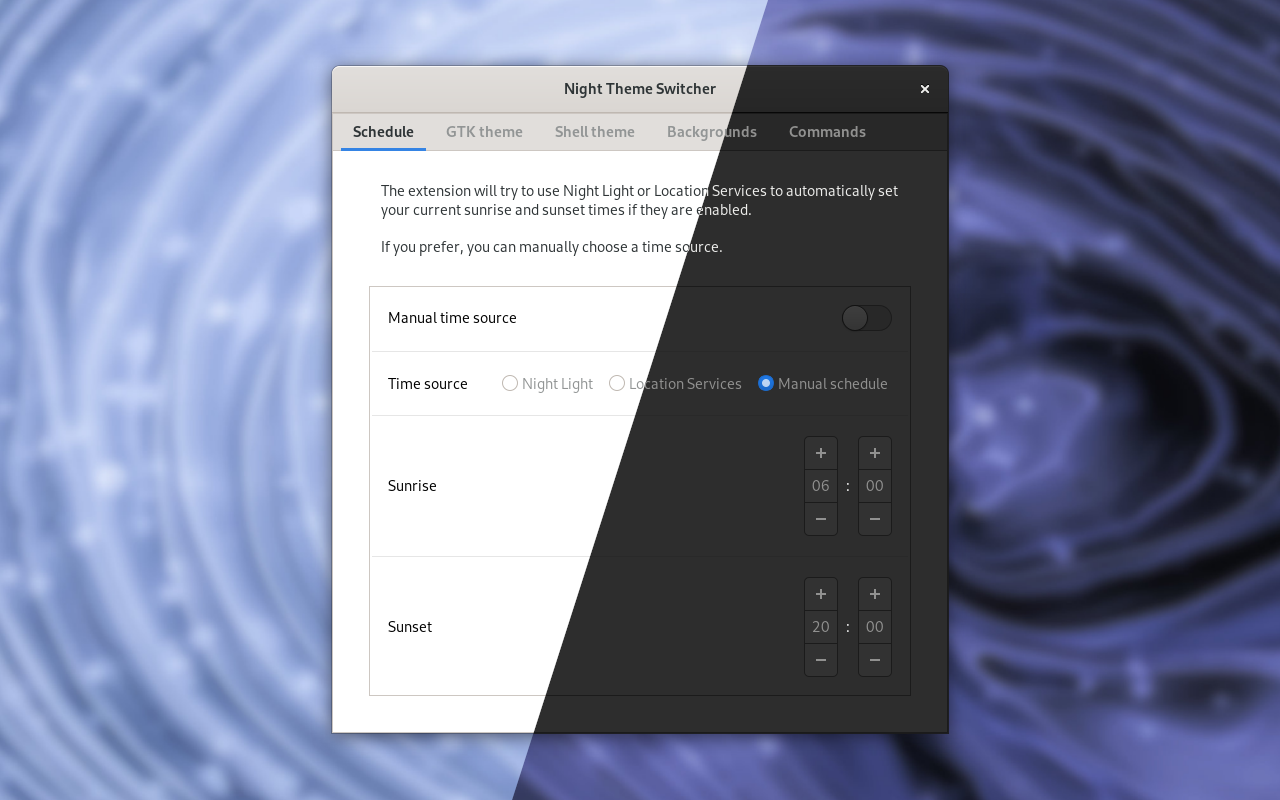
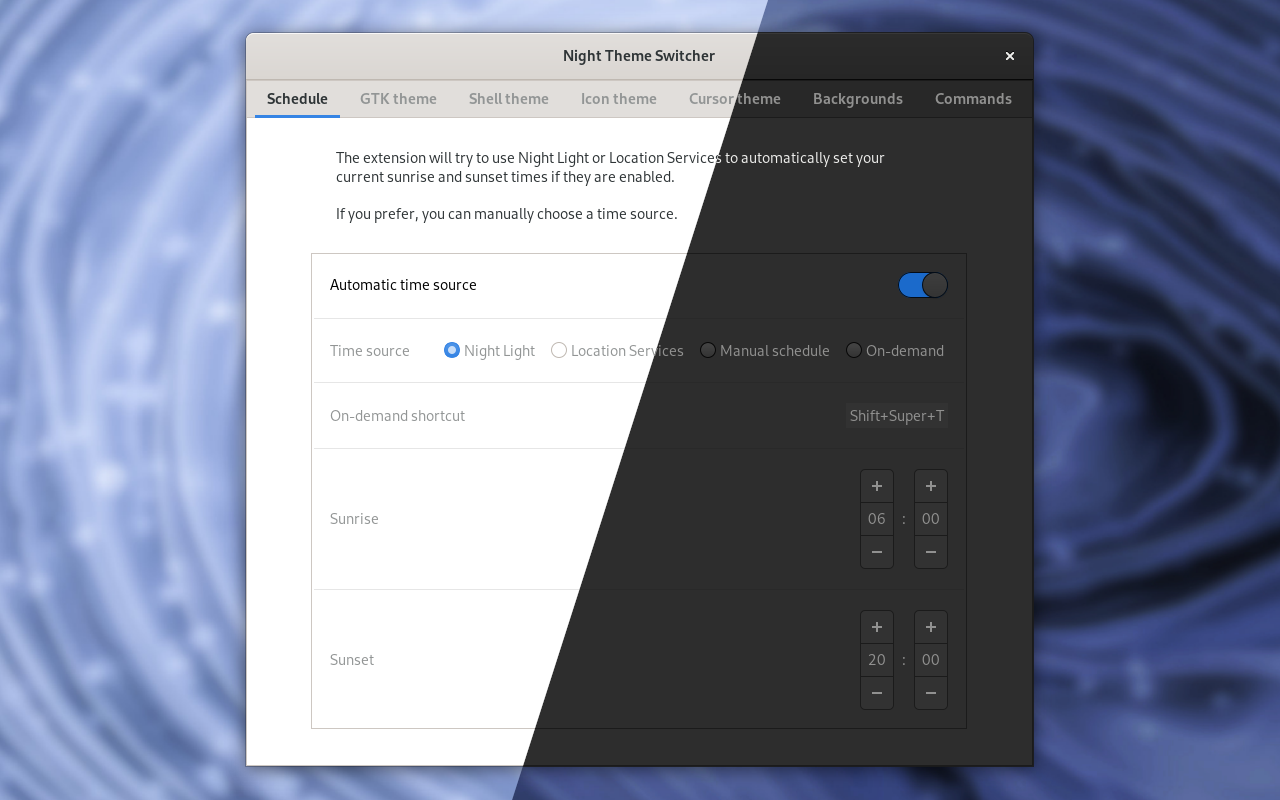
Update description and screenshot

diff --git a/README.md b/README.md
@@ -3,9 +3,9 @@
 ![](./res/screenshot.png)
 <!-- Background picture by Adrien Converse from https://unsplash.com/photos/kCrrUx7US04 -->
 
-Automatically toggle your light and dark GTK and GNOME Shell theme variants, switch backgrounds and launch custom commands at sunset and sunrise.
+Automatically toggle your light and dark GTK, GNOME Shell, icon and cursor themes variants, switch backgrounds and run custom commands at sunset and sunrise.
 
-Supports Night Light, Location Services and manual schedule.
+Supports Night Light, Location Services, manual schedule and on-demand switch.
 
 ## Theme compatibility
 
